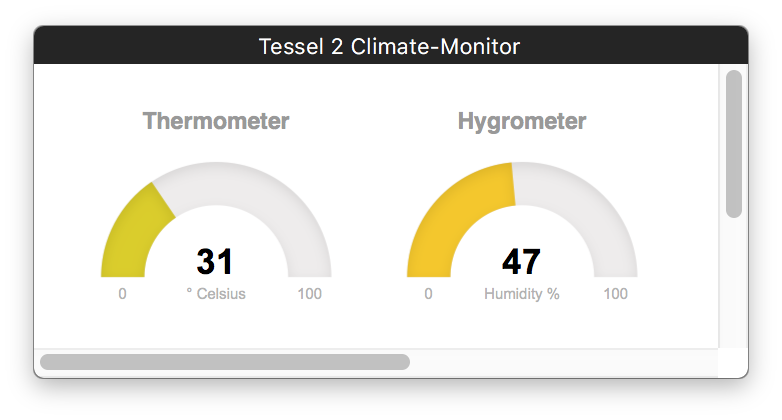
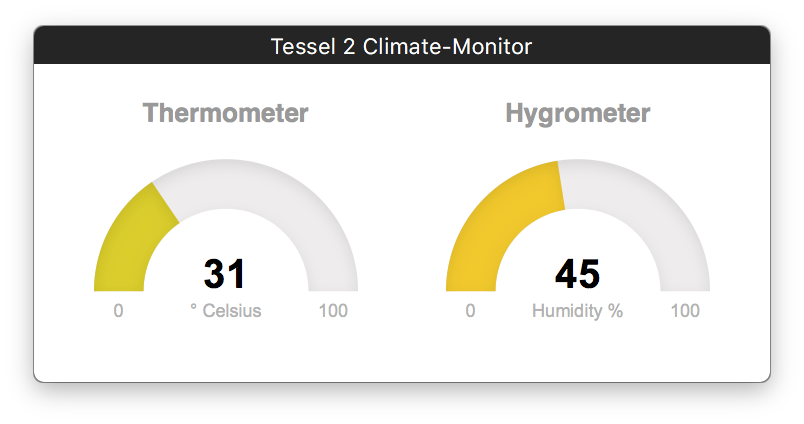
improved gauge size/ scaling

diff --git a/climate-socketio-app/index.html b/climate-socketio-app/index.html
@@ -12,7 +12,7 @@
         
         #thermometer,
         #hygrometer {
-            width: 25%;
+            width: 50%;
         }
     </style>
 </head>
